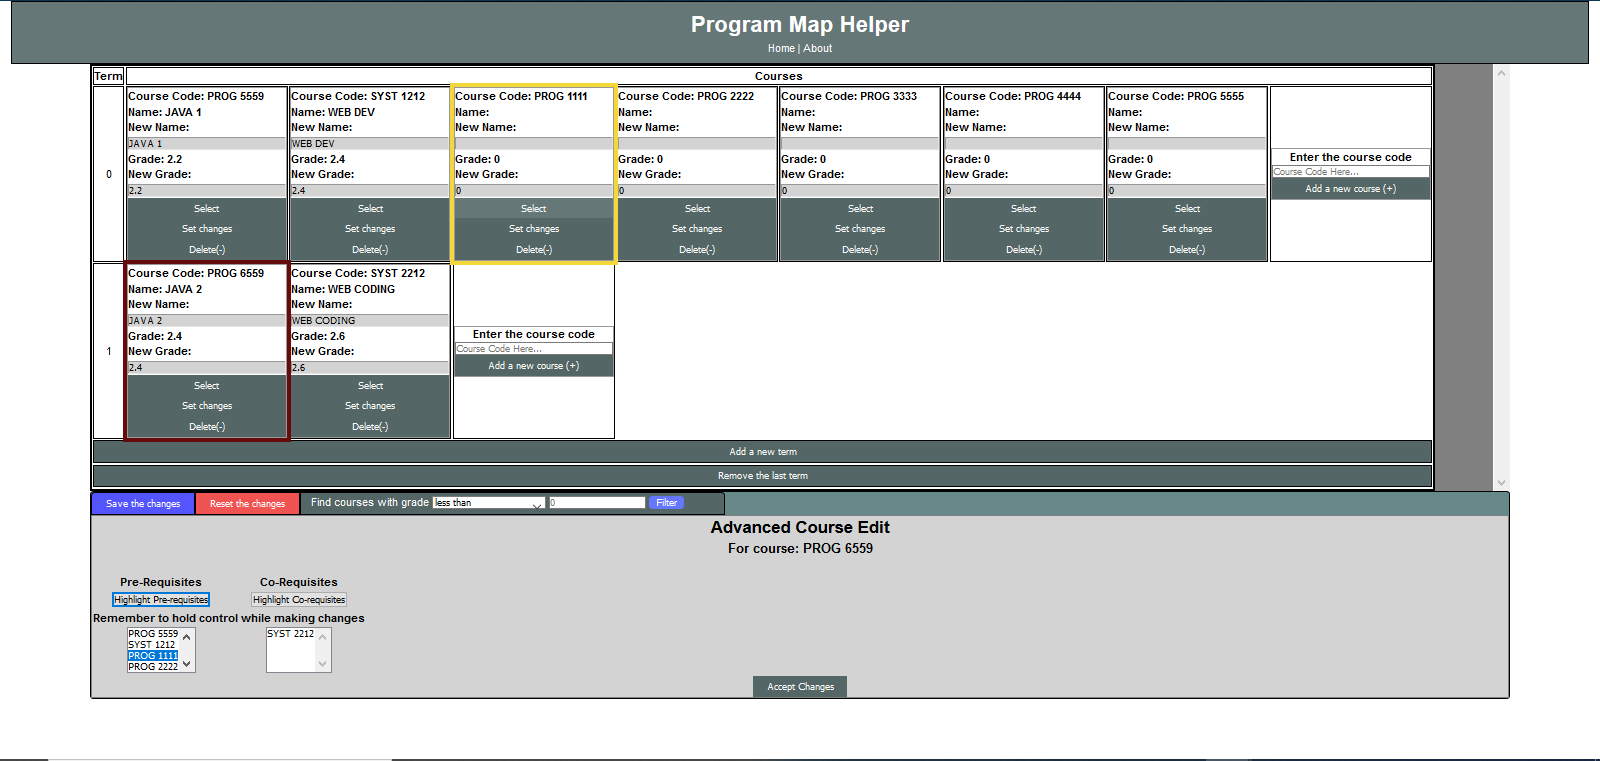
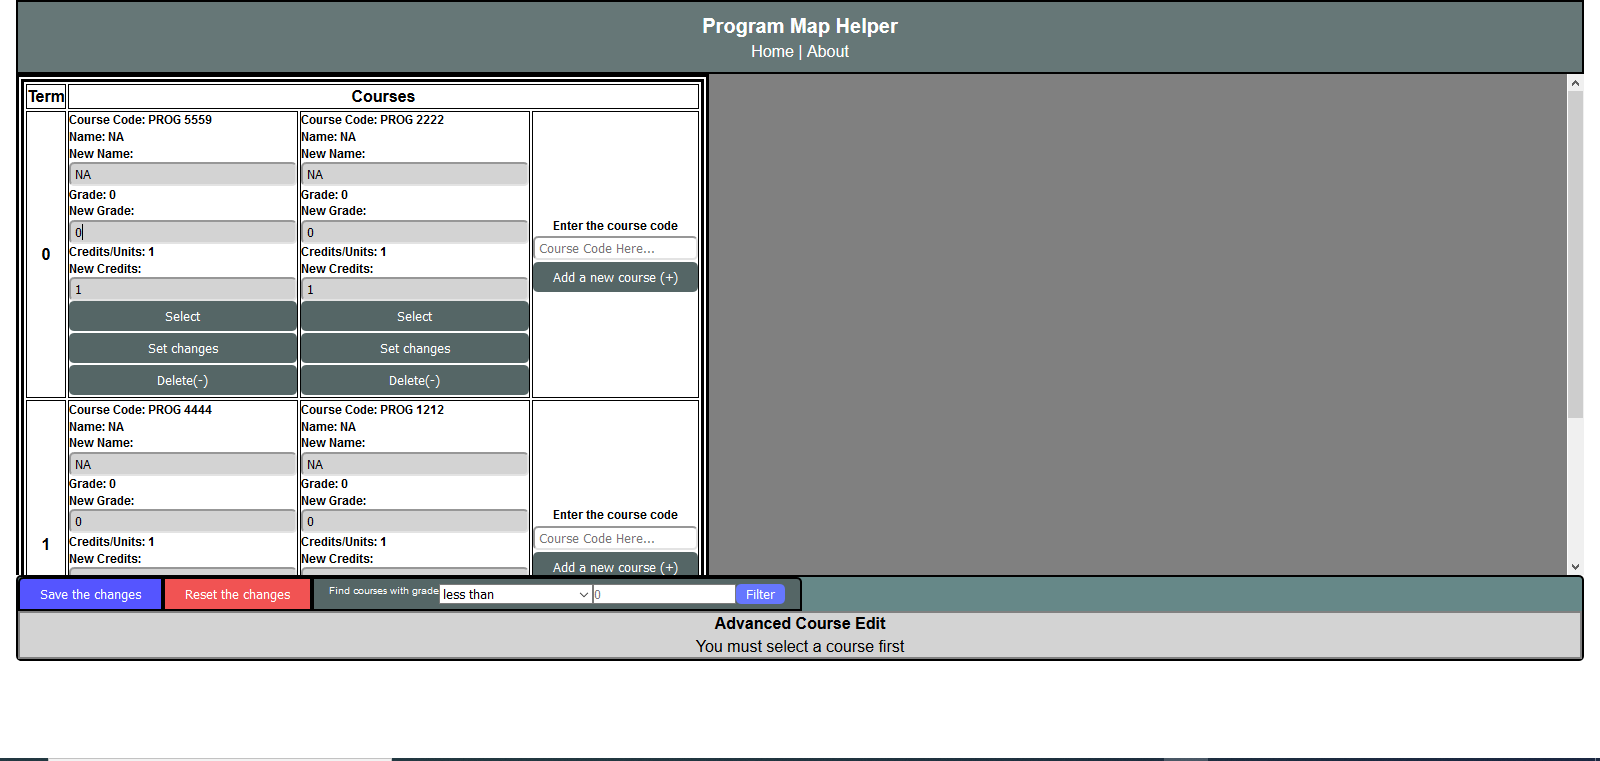
Changed UI

diff --git a/src/componenets/GradeFilter.js b/src/componenets/GradeFilter.js
@@ -23,31 +23,32 @@ export class GradeFilter extends Component {
     
     render() {
         return (
-            <div style={gradeFilterStyle}>
-                <form
-                onSubmit={this.onSubmit}
+            
+            <form style={gradeFilterStyle}
+            onSubmit={this.onSubmit}
 
+            >
+                <label>Find courses with grade </label>
+                
+                <select 
+                id="filter"
+                name="category"
+                onChange={this.onChange}
+                defaultValue={this.state.category}
                 >
-                    <label>Find courses with grade </label>
-                    <select 
-                    id="filter"
-                    name="category"
-                    onChange={this.onChange}
-                    defaultValue={this.state.category}
-                    >
-                        <option value={1}>greater than</option>
-                        <option value={2}>less than</option>
-                        <option value={3}>equal to</option>
-                        <option value={4}>greater than or equal to</option>
-                        <option value={5}>less than or equal to</option>
-                    </select>
-                    {' '}
+                    <option value={1}>greater than</option>
+                    <option value={2}>less than</option>
+                    <option value={3}>equal to</option>
+                    <option value={4}>greater than or equal to</option>
+                    <option value={5}>less than or equal to</option>
+                </select>
+                {'  '}
 
-                    <input type="text" onChange={this.onChange}  name="val" value={this.state.value} placeholder={0.0} />
-                    {' '}
-                    <input style={btnStyle} type="submit" value="Filter"/>
-                </form>
-            </div>
+                <input type="text" onChange={this.onChange}  name="val" value={this.state.value} placeholder={0.0} />
+                {'  '}
+                <input style={btnStyle} type="submit" value="Filter"/>
+            </form>
+            
         )
     }
 }
@@ -58,8 +59,11 @@ GradeFilter.propType = {
 }
 
 const gradeFilterStyle = {
-    padding: '2px 15px',
-    width: '30%',
+    padding: '5px 15px',
+    width: 'auto',
+    display: 'flex',
+    flexWrap: 'wrap',
+    justifyContent:'space-evenly',
     background: '#566',
     borderRadius: '0 5px 0 0',
     border: '2px solid black',

diff --git a/src/componenets/AddCourse.js b/src/componenets/AddCourse.js
@@ -25,26 +25,29 @@ export class AddCourse extends Component {
 
     render() {
         return (
-
+      
             <form
             onSubmit={this.onSubmit}
             style={addCourseStyle}
             >
             <span>{this.state.message}</span>
                 <input 
+                    style={inputStyle}
                     type="text"
                     name="courseCode"
                     placeholder="Course Code Here..."
                     value={this.state.courseCode}
                     onChange={this.onChange}
+
                 />
                 <input 
+                    style={buttonStyle}
                     type="submit"
                     value="Add a new course (+)"
                     className="btn btn-add"
                  />
             </form>
-            
+        
         )
     }
 }
@@ -60,14 +63,26 @@ AddCourse.propType = {
 const addCourseStyle = {
     display:'flex', 
     flexDirection:'column',
-    background: '#fff',
-    border: '1px solid #999',
     fontWeight: 'bold',
+    textAlign: 'center',
+    justifyContent: 'space-around',
+    background: '#fff',
     height: 'auto',
-    width: '10vw',
-    padding: '0',
-    textAlign: 'center', 
+    width: 'auto',
+    
 };
+
+const buttonStyle = {
+    marginTop:'2px',
+    borderRadius: '5px',
+}
+
+const inputStyle = {
+    marginTop:'2px',
+    borderRadius: '5px',
+    padding:'2px 4px',
+}
+
 
 
 export default AddCourse

diff --git a/src/componenets/Course.js b/src/componenets/Course.js
@@ -83,6 +83,7 @@ export class Course extends Component{
                     />
                 </span>
                 <input 
+                    style={buttonStyle}
                     type="button"
                     value="Select"
                     className="btn"
@@ -91,12 +92,14 @@ export class Course extends Component{
                     }
                 />
                 <input 
+                    style={buttonStyle}
                     type="submit"
                     value="Set changes"
                     className="btn btn-save"
                     
                 />
                 <input 
+                    style={buttonStyle}
                     type="button"
                     value="Delete(-)"
                     className="btn btn-delete"
@@ -129,17 +132,23 @@ Course.propType = {
 const inputStyle = {
     width: '100%',
     background: 'lightgrey',
+    borderRadius: '5px',
+    padding:'2px 4px',
 }
 
 const courseStyle = {
     display:'flex', 
     flexDirection:'column',
-    border: '1px solid #999',
+    borderRadius: '5px',
     fontWeight: 'bold',
     height: 'auto',
-    width: '15vw',
+    width: 'auto',
     padding: '0', 
 };
 
+const buttonStyle = {
+    marginBottom:'2px',
+    borderRadius: '5px',
+}
 
 export default Course

diff --git a/src/componenets/SideView.js b/src/componenets/SideView.js
@@ -348,6 +348,8 @@ return (
                             <tr>
                                 <td>
                                     <input 
+                                        className="btnShow"
+                                        style={buttonShowStyle}
                                         type="button" 
                                         value="Highlight Pre-requisites" 
                                         onClick={this.props.handleClickShowPrereq.bind(this, selectedCourse.code)}
@@ -359,7 +361,8 @@ return (
                                 </td>
                                 <td>
                                     <input 
-                                        
+                                        className="btnShow"
+                                        style={buttonShowStyle}
                                         type="button" 
                                         value="Highlight Co-requisites"
                                         onClick={this.props.handleClickShowCoreq.bind(this, selectedCourse.code)}
@@ -441,6 +444,10 @@ const sideViewStyle = {
     textAlign: 'center',
     border: '2px solid grey'
                  
+}
+
+const buttonShowStyle = {
+    
 }
 
 const tableStyle = {

diff --git a/src/App.css b/src/App.css
@@ -49,7 +49,8 @@ td { font-size: 12px; }
 .inner-bottom-head{
   display: flex;
   flex-direction: row;
-  
+  height: auto;
+  font-size: 10px;
 }
 
 .btn {
@@ -83,9 +84,21 @@ td { font-size: 12px; }
   background: rgb(228, 27, 27);
 }
 
+.btnShow{
+  border:1px outset black;
+  border-radius:5px;
+  padding: 5px;
+  background: hsl(207, 86%, 85%);
+}
+
+
+.btnShow:hover{
+  background: hsl(207, 81%, 90%);
+}
+
 
 .courseTable{
-  border: 4px double black;
+  border: 8px double black;
   background-color: #fff;
 }
 
@@ -102,11 +115,11 @@ td { font-size: 12px; }
 }
 
 .highlighted{
-  outline:4px solid rgb(243, 215, 59);
+  /* outline:4px solid rgb(243, 215, 59); */
   background-color: rgb(243, 215, 59);
 }
 
 .selected{
-  outline:4px solid rgb(102, 11, 11);
+  /* outline:4px solid rgb(102, 11, 11); */
   background-color: rgb(180, 123, 123);
 }

diff --git a/src/componenets/Term.js b/src/componenets/Term.js
@@ -8,7 +8,7 @@ export class Term extends Component {
     render() {
         //console.log(this.props.filteredCourses);
         const index = this.props.termNumber;
-        const termDisplay = (<td key={index + "x" + -1} style={termDisplayStyle}>{index}</td>);
+        const termDisplay = (<th key={index + "x" + -1} style={termDisplayStyle}>{index}</th>);
         const coursesDisplay = 
         this.props.courseList.map((val, ind) => {
                         
